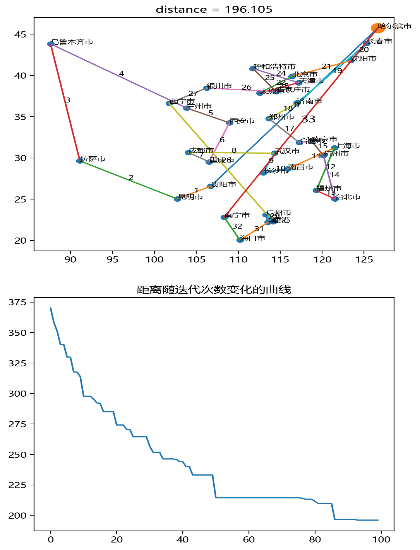
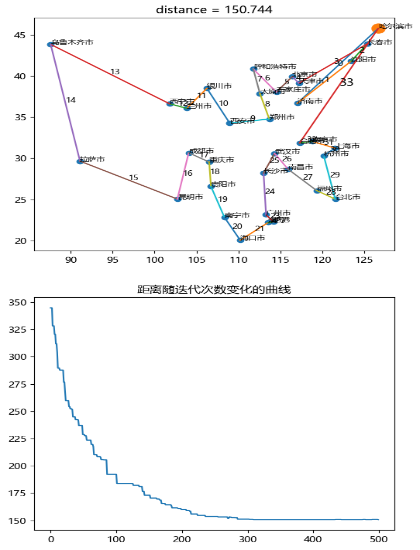
version 1.1

diff --git a/gui.py b/gui.py
@@ -1,3 +1,4 @@
+import os
 import tkinter as tk
 import tkinter.ttk
 from tsp import readDate, getDistanceMatrix, generate_population, get_origin, get_result, \
@@ -17,7 +18,6 @@ class GUI:
         self.isshow = False
         self.all_pt_names = []
         self.set_gui()
-        self.show_text.insert("insert", "Init Model...\n")
         self.root.mainloop()
 
     def set_gui(self):
@@ -51,12 +51,17 @@ class GUI:
         self.entr3 = tk.Entry(self.root, textvariable=self.envar3)
 
         self.show_text = tk.Text(self.root, width=50, height=20)
+        self.scrollbar = tk.Scrollbar(self.root, orient=tk.VERTICAL)
+        print('height' in dir(self.scrollbar))
+        self.show_text.config(yscrollcommand=self.scrollbar.set)
+        self.scrollbar.config(command=self.show_text.yview)
 
         self.start_btn = tk.Button(self.root, text='Start', width=10, height=2, font=('', 15, 'bold'),
                                    command=self.RunAlgo)
 
         self.show_btn = tk.Button(self.root, text='Best', width=10, height=2, font=('', 15, 'bold'),
                                   command=self.ShowImg)
+
 
         self.label1.place(x=20, y=240)
         self.label2.place(x=20, y=290)
@@ -66,7 +71,8 @@ class GUI:
         self.entr2.place(x=120, y=340)
         self.entr3.place(x=120, y=390)
         self.combox.place(x=100, y=240)
-        self.show_text.place(x=30, y=450)
+        self.show_text.place(x=20, y=450)
+        self.scrollbar.place(x=363, y=450, height=270, width=20)
         self.start_btn.place(x=40, y=750)
         self.show_btn.place(x=150, y=750)
         self.show_btn.config(state=tk.DISABLED)
@@ -119,7 +125,7 @@ class GUI:
         self.root.mainloop()
 
     def RunAlgo(self):
-        self.show_text.insert("insert", '------------     Start This Run!   ------------\n')
+        self.RefreshLog('------------     Start This Run!   ------------\n')
         try:
             num_popu = int(self.envar2.get())
             num_iter = int(self.envar1.get())
@@ -160,6 +166,10 @@ class GUI:
         finally:
             if self.progress.get() < self.progressbar['maximum']:
                 self.root.after(30, self.listen_for_result)
+
+    def RefreshLog(self, msg):
+        self.show_text.insert('insert', msg)
+        self.show_text.see("end")
 
     def StartAlgo(self, num_pou, num_iter, mul_rate, st_point):
         valids = []
@@ -213,37 +223,38 @@ class GUI:
             DistanceAndPath = get_result(population, origin, Distance)
             register.append(DistanceAndPath[0][0])
 
-            if i == 0 or (i + 1) % 20 == 0:
-                self.Plot(DistanceAndPath, point_name, point_coordinate, origin, register)
+            if i == 0 or (i + 1) % 10 == 0:
+                self.Plot(DistanceAndPath, point_name, point_coordinate, origin, register, -1)  # not save temp results
+                # self.Plot(DistanceAndPath, point_name, point_coordinate, origin, register, i + 1)
                 img = cv2.resize(cv2.imread('temp.png'), (420, 550), cv2.INTER_CUBIC)
                 cv2.imwrite('temp.png', img)
                 photo = tk.PhotoImage(file='temp.png')
                 self.show_temp.config(image=photo)
                 self.show_temp.update()
 
-                self.show_text.insert("insert", "[{}/{}]({}) Min Distance is :{:.2f}\n".format(i + 1, itter_time,
-                                                                                               st_point,
-                                                                                               DistanceAndPath[0][0]))
+                self.RefreshLog("[{}/{}]({}) Min Distance is :{:.2f}\n".format(i + 1, itter_time,
+                                                                                st_point,
+                                                                                DistanceAndPath[0][0]))
                 best_route = DistanceAndPath[0][1] if DistanceAndPath[0][0] < best_distance else best_route
                 best_distance = min(best_distance, DistanceAndPath[0][0])
             self.thread_queue.put(i)
             i += 1
-        self.show_text.insert("insert", 'Best Travel Route is:\n')
+        self.RefreshLog('Best Travel Route is:\n')
         path = best_route
         fmt = '\t{:<}\t\t{:<}\t{:<}\n'
-        self.show_text.insert("insert", fmt.format(st_point, '--->', idx_point_dict[path[0]]))
+        self.RefreshLog(fmt.format(st_point, '--->', idx_point_dict[path[0]]))
         for i in range(len(path) - 1):
-            self.show_text.insert("insert", fmt.format(idx_point_dict[path[i]], '--->',
+            self.RefreshLog(fmt.format(idx_point_dict[path[i]], '--->',
                                                        idx_point_dict[path[i + 1]]))
-        self.show_text.insert("insert", fmt.format(idx_point_dict[path[-1]], '--->', st_point))
-        self.show_text.insert("insert", '\n------------     Finish This Run!   ------------\n\n')
+        self.RefreshLog(fmt.format(idx_point_dict[path[-1]], '--->', st_point))
+        self.RefreshLog('\n------------     Finish This Run!   ------------\n\n')
         self.start_btn.config(state=tk.NORMAL)
         self.show_btn.config(state=tk.NORMAL)
 
-    def Plot(self, DistanceAndPath, point_name, point_coordinate, origin, register):
+    def Plot(self, DistanceAndPath, point_name, point_coordinate, origin, register, i=-1):
         result_path = DistanceAndPath[0][1]
         distance = DistanceAndPath[0][0]
-        plt.figure(figsize=(6, 12), dpi=200)
+        plt.figure(figsize=(6, 12), dpi=100)
 
         plt.subplot(2, 1, 1)
         draw(origin, result_path, distance, point_coordinate, point_name)
@@ -251,6 +262,9 @@ class GUI:
         plt.subplot(2, 1, 2)
         plt.plot(list(range(len(register))), register)
         plt.title("距离随迭代次数变化的曲线")
+        if i != -1:
+            if not os.path.isdir('temp'): os.makedirs('temp')
+            plt.savefig(f'temp/temp_{i}.png', bbox_inches='tight')
         plt.savefig(f'temp.png', bbox_inches='tight')
         plt.savefig(f'best.png', bbox_inches='tight')
 
